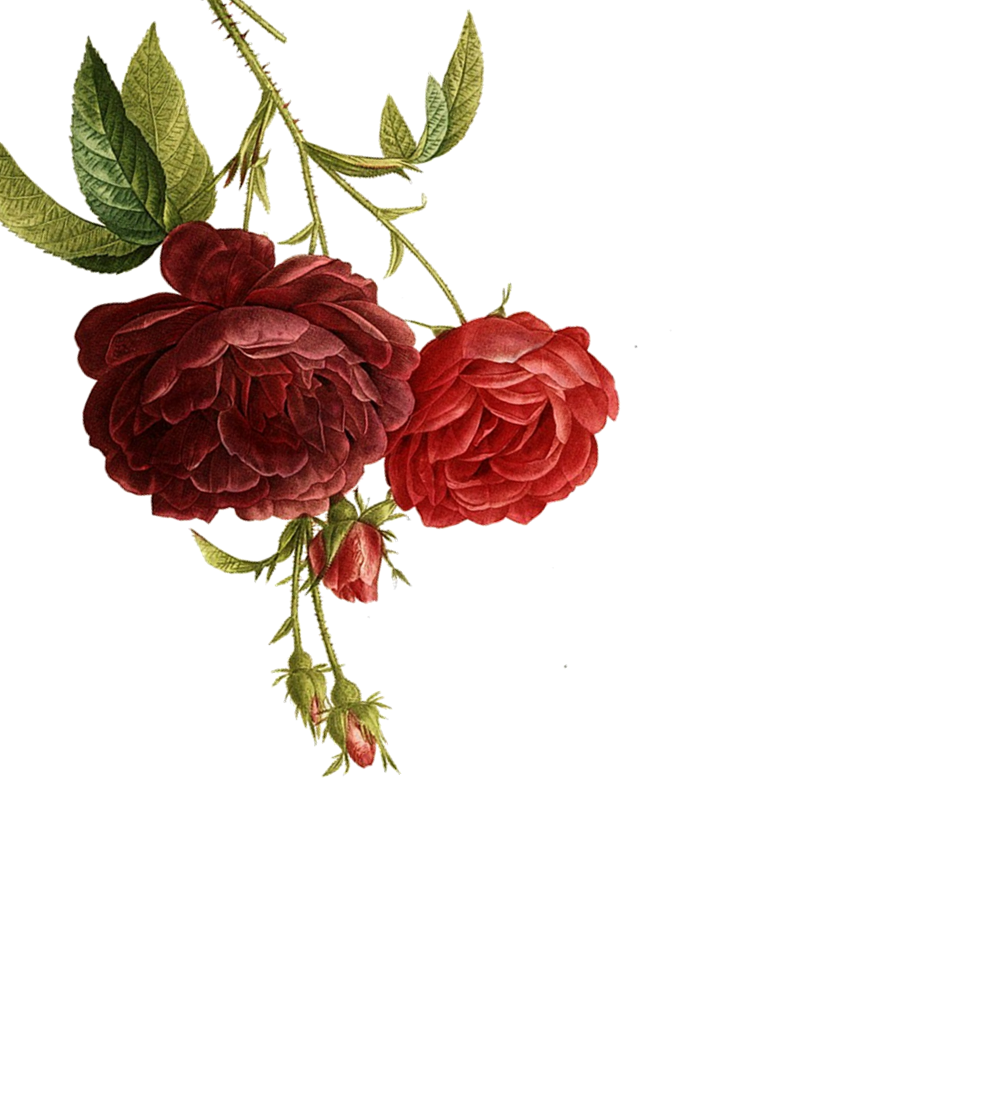
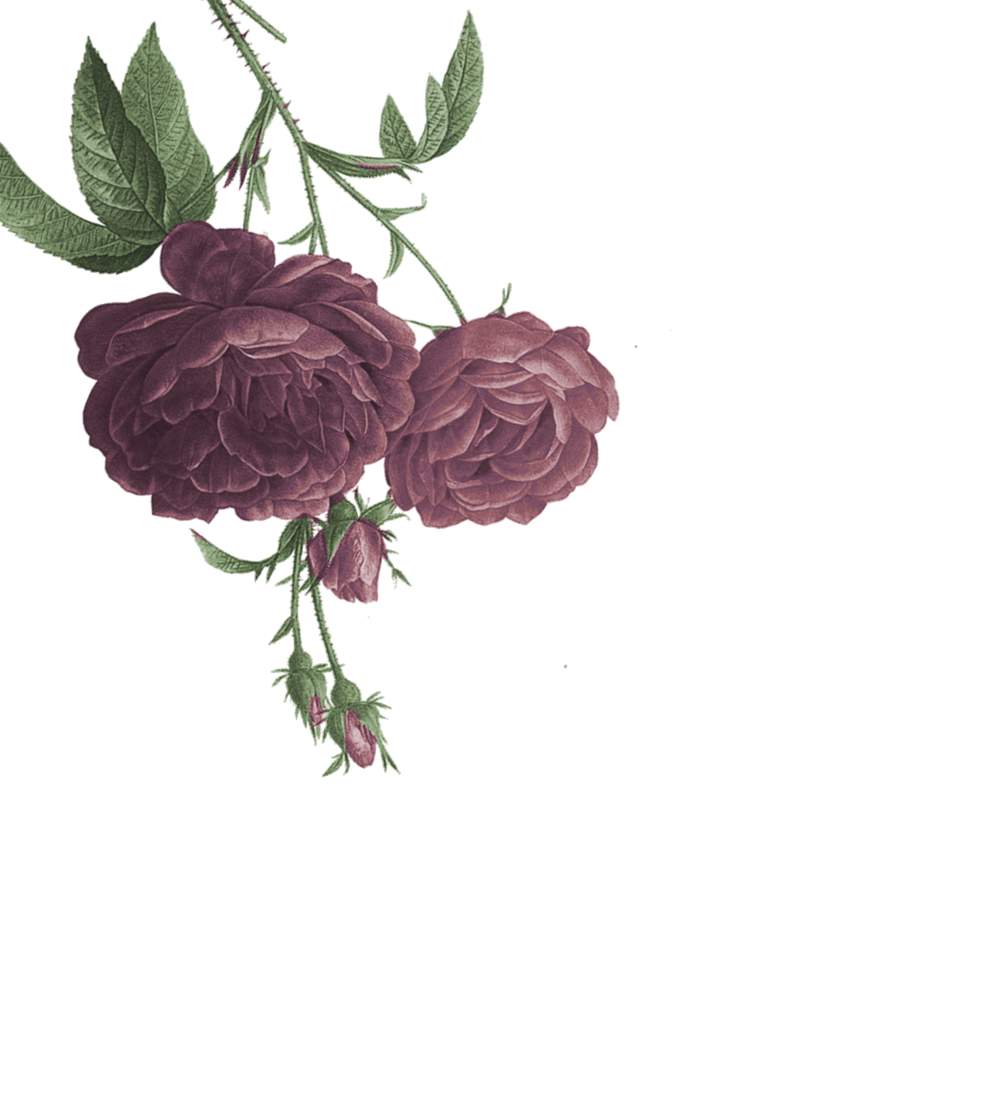
Fontes Anton/Archivo, paleta pink/lilas/verde, degradê preto e branco, sobre mim estilo provador e flores recoloridas

Changed region(s): [[0.0, 0.0, 0.62, 0.7109]]

diff --git a/index.html b/index.html
@@ -7,10 +7,10 @@
   <meta name="description" content="Prissila Kieski, criadora de conteúdo UGC. Vídeos autênticos que vendem para marcas de beleza, casa, comida, moda e fitness.">
   <meta name="theme-color" content="#1f1b1e">
 
-  <!-- Fontes do Google: Bodoni Moda (títulos, estilo editorial) e Archivo (corpo) -->
+  <!-- Fontes do Google: Anton (títulos de impacto, estilo Netflix) e Archivo (corpo) -->
   <link rel="preconnect" href="https://fonts.googleapis.com">
   <link rel="preconnect" href="https://fonts.gstatic.com" crossorigin>
-  <link href="https://fonts.googleapis.com/css2?family=Bodoni+Moda:ital,opsz,wght@0,6..96,400..700;1,6..96,400..700&family=Archivo:wght@400;500;600;700&display=swap" rel="stylesheet">
+  <link href="https://fonts.googleapis.com/css2?family=Anton&family=Archivo:wght@400;500;600;700;800&display=swap" rel="stylesheet">
 
   <style>
     /* ==========================================================
@@ -19,23 +19,25 @@
        rosa milk, verde sálvia e rosa neon
        ========================================================== */
     :root {
-      --fundo: #1f1b1e;            /* preto suave, puxado para o grafite */
-      --fundo-2: rgba(44, 38, 42, .55);  /* seções alternadas, translúcidas (deixa as ilustrações aparecerem) */
-      --superficie: #2a2528;       /* cards */
-      --superficie-2: #342e32;
-      --texto: #f6eef1;            /* texto principal (quase branco, leitura máxima) */
-      --texto-suave: #cbbfc5;      /* texto de apoio */
-      --escuro: #1f1b1e;           /* texto escuro sobre rosa milk */
-      --milk: #f7dde4;             /* rosa milk: destaques, faixas e botões */
-      --milk-forte: #eec1cd;
-      --neon: #ff2d95;             /* rosa neon: brilho e detalhes */
-      --neon-texto: #ff5cad;       /* rosa neon para TEXTO (contraste alto sobre o grafite) */
+      /* Paleta: pink elétrico, lilás envelhecido, verde botânico, branco e preto */
+      --fundo: #141214;            /* preto */
+      --branco: #f6f3f1;           /* branco quente, usado nas seções claras */
+      --fundo-2: rgba(32, 29, 32, .55);
+      --superficie: #201d20;       /* cards */
+      --superficie-2: #2a262a;
+      --texto: #f6f3f1;            /* texto principal sobre o preto */
+      --texto-suave: #c9c1c6;      /* texto de apoio */
+      --escuro: #141214;           /* texto escuro sobre cores claras */
+      --milk: #c4adca;             /* lilás envelhecido: números, faixas e destaques */
+      --milk-forte: #a68eae;
+      --neon: #ff2d95;             /* pink elétrico: botões, brilho e detalhes */
+      --neon-texto: #ff4fa3;       /* pink elétrico para TEXTO (contraste alto sobre o preto) */
       --brilho: 0 0 10px rgba(255, 45, 149, .7), 0 0 28px rgba(255, 45, 149, .45);
-      --salvia: #b3c4ae;           /* verde sálvia para textos e detalhes */
-      --salvia-linha: #6f8a6c;     /* verde sálvia para linhas */
-      --salvia-fundo: rgba(169, 187, 165, .12);
+      --salvia: #a3b896;           /* verde botânico para textos e detalhes */
+      --salvia-linha: #5f7c56;     /* verde botânico para linhas */
+      --salvia-fundo: rgba(95, 124, 86, .14);
       --borda: rgba(255, 255, 255, .1);
-      --titulo: "Bodoni Moda", "Didot", "Times New Roman", serif;
+      --titulo: "Anton", "Impact", "Arial Narrow", sans-serif;
       --corpo: "Archivo", system-ui, -apple-system, "Segoe UI", sans-serif;
       --largura: 1240px;
       --gutter: clamp(16px, 4vw, 40px);
@@ -77,7 +79,7 @@
     /* Buquê da capa em 3 camadas, cada uma balança num ritmo (efeito de brisa) */
     .capa-buque {
       position: absolute; top: 0; left: 0; z-index: 0; pointer-events: none;
-      width: min(60vw, 880px); aspect-ratio: 1000 / 1100; opacity: .6;
+      width: min(60vw, 880px); aspect-ratio: 1000 / 1100; opacity: .45;
       -webkit-mask-image: radial-gradient(ellipse 100% 100% at 0% 0%, #000 52%, transparent 100%);
               mask-image: radial-gradient(ellipse 100% 100% at 0% 0%, #000 52%, transparent 100%);
     }
@@ -95,7 +97,7 @@
     .guirlanda { position: absolute; inset: 0; z-index: -1; pointer-events: none; overflow: hidden; }
     .guirlanda span {
       position: absolute; top: 0; bottom: 0; width: min(30vw, 470px);
-      background-repeat: repeat-y; background-size: 100% auto; opacity: .42;
+      background-repeat: repeat-y; background-size: 100% auto; opacity: .3;
     }
     .guirlanda .lado-esq {
       left: -8px; background-image: url("decoracao/guirlanda-esq.png");
@@ -122,8 +124,8 @@
     }
 
     @media (max-width: 820px) {
-      .capa-buque { width: 96vw; opacity: .42; }
-      .guirlanda span { width: 38vw; opacity: .26; }
+      .capa-buque { width: 96vw; opacity: .32; }
+      .guirlanda span { width: 38vw; opacity: .2; }
     }
 
     .pular {
@@ -145,8 +147,8 @@
       padding: 6px 12px 5px; margin-bottom: 20px;
     }
     .titulo-secao {
-      font-family: var(--titulo); font-size: clamp(2.4rem, 6.2vw, 4.6rem);
-      line-height: 1.02; letter-spacing: -0.01em;
+      font-family: var(--titulo); font-size: clamp(2.4rem, 6.2vw, 4.4rem); text-transform: uppercase;
+      line-height: 1.02; letter-spacing: .01em;
       transition: color .3s ease, text-shadow .3s ease;
     }
     .titulo-secao:hover { color: var(--neon-texto); text-shadow: var(--brilho); }
@@ -162,10 +164,10 @@
       transition: color .3s ease, background-color .3s ease, border-color .3s ease, text-shadow .3s ease, box-shadow .3s ease;
     }
     .btn svg { width: 16px; height: 16px; flex-shrink: 0; fill: currentColor; }
-    .btn-vermelho { background: var(--milk); color: var(--escuro); }
+    .btn-vermelho { background: var(--neon); border-color: var(--neon); color: var(--escuro); }
     .btn-vermelho:hover, .btn-vermelho:focus-visible {
-      background: var(--neon); border-color: var(--neon); color: #fff;
-      box-shadow: 0 0 26px rgba(255, 45, 149, .55);
+      background: #fff; border-color: #fff; color: var(--escuro);
+      box-shadow: 0 0 30px rgba(255, 45, 149, .7);
     }
     .btn-cinza { background: transparent; color: var(--texto); border-color: rgba(255,255,255,.35); }
     .btn-cinza:hover, .btn-cinza:focus-visible { color: var(--neon-texto); border-color: var(--neon); text-shadow: var(--brilho); }
@@ -227,16 +229,16 @@
       display: inline-flex; align-items: center; gap: 12px; margin-bottom: 22px;
       font-weight: 500; font-size: .76rem; letter-spacing: .26em; text-transform: uppercase; color: var(--salvia);
     }
-    .selo b { font-weight: 700; color: var(--escuro); background: var(--milk); padding: 5px 10px 4px; letter-spacing: .22em; font-size: .74rem; }
+    .selo b { font-weight: 700; color: var(--escuro); background: var(--neon); padding: 5px 10px 4px; letter-spacing: .22em; font-size: .74rem; }
     .capa h1 {
       font-family: var(--titulo); text-transform: uppercase; font-weight: 500;
       font-size: clamp(3.3rem, 10.5vw, 9rem); line-height: .9; letter-spacing: -0.015em;
     }
     .capa h1 span { transition: color .35s ease, text-shadow .35s ease; }
     .capa h1 span:hover { color: var(--neon-texto); text-shadow: var(--brilho); }
-    .capa h1 .linha-2 { display: inline-block; font-style: italic; font-weight: 400; color: var(--milk); padding-right: .08em; }
+    .capa h1 .linha-2 { display: inline-block; color: var(--neon); padding-right: .08em; }
     .capa .frase { margin-top: 28px; max-width: 540px; font-size: clamp(1.05rem, 2vw, 1.22rem); color: var(--texto-suave); line-height: 1.7; }
-    .capa .frase strong { color: var(--milk); font-weight: 600; font-style: italic; transition: color .3s ease, text-shadow .3s ease; }
+    .capa .frase strong { color: var(--milk); font-weight: 600; transition: color .3s ease, text-shadow .3s ease; }
     .capa .frase strong:hover { color: var(--neon-texto); text-shadow: var(--brilho); }
     .capa .frase .local { color: var(--salvia); white-space: nowrap; }
     .capa-botoes { display: flex; flex-wrap: wrap; gap: 12px; margin-top: 34px; }
@@ -262,24 +264,24 @@
     .capa-foto .midia { width: 100%; height: 100%; object-fit: cover; object-position: 50% 32%; filter: saturate(.95); }
     .capa-foto .iniciais {
       position: absolute; inset: 0; display: grid; place-items: center; z-index: 2;
-      font-family: var(--titulo); font-style: italic; font-size: clamp(6rem, 16vw, 11rem); color: rgba(255,255,255,.5); pointer-events: none;
+      font-family: var(--titulo); font-size: clamp(6rem, 16vw, 11rem); color: rgba(255,255,255,.5); pointer-events: none;
     }
-    .faixa-marcas { background: var(--milk); overflow: hidden; position: relative; }
+    .faixa-marcas { background: transparent; overflow: hidden; position: relative; }
     .faixa-marcas .rotulo {
       position: absolute; left: 0; top: 0; bottom: 0; z-index: 2;
       display: flex; align-items: center; padding: 0 22px 0 var(--gutter);
-      background: linear-gradient(90deg, var(--milk) 78%, transparent);
-      font-size: .68rem; font-weight: 600; letter-spacing: .26em; text-transform: uppercase; color: var(--escuro);
+      background: linear-gradient(90deg, var(--fundo) 70%, transparent);
+      font-size: .68rem; font-weight: 600; letter-spacing: .26em; text-transform: uppercase; color: var(--salvia);
     }
     .faixa-trilho { display: flex; width: max-content; animation: deslizar 42s linear infinite; }
     .faixa-marcas:hover .faixa-trilho { animation-play-state: paused; }
     .faixa-trilho ul { display: flex; }
     .faixa-trilho li {
       padding: 18px 30px; white-space: nowrap;
-      font-family: var(--titulo); font-style: italic; font-size: 1.35rem; color: var(--escuro);
+      font-family: var(--titulo); font-size: 1.35rem; letter-spacing: .06em; text-transform: uppercase; color: var(--milk);
       display: flex; align-items: center; gap: 30px; transition: color .3s ease;
     }
-    .faixa-trilho li:hover { color: #b1005d; }
+    .faixa-trilho li:hover { color: var(--neon-texto); text-shadow: var(--brilho); }
     .faixa-trilho li::after { content: ""; width: 5px; height: 5px; background: var(--salvia-linha); border-radius: 50%; }
     .faixa-trilho li:nth-child(even)::after { background: var(--neon); }
     @keyframes deslizar { to { transform: translateX(-50%); } }
@@ -287,40 +289,38 @@
     /* ==========================================================
        2. SOBRE MIM
        ========================================================== */
-    /* Sobre mim: foto grande em preto e branco ao fundo + polaroid colorida na frente + texto à direita */
-    #sobre { padding-block: clamp(80px, 11vw, 140px); }
-    #sobre > .container { position: relative; z-index: 1; }
-    .sobre-fundo {
-      position: absolute; inset: 0; z-index: 0; pointer-events: none;
-      -webkit-mask-image: linear-gradient(to bottom, transparent 0%, #000 16%, #000 84%, transparent 100%);
-              mask-image: linear-gradient(to bottom, transparent 0%, #000 16%, #000 84%, transparent 100%);
+    /* Seções claras: o fundo passa do preto para o branco e volta em degradê suave, sem linha de corte.
+       As cores de texto se ajustam sozinhas dentro delas. */
+    .tema-claro {
+      --texto: #141214; --texto-suave: #5a525d; --borda: rgba(20, 18, 20, .12);
+      --superficie: #ffffff; --superficie-2: #efe9ec;
+      --milk: #6f5a78; --milk-forte: #8a7593;
+      --neon-texto: #d1006b; --brilho: 0 0 10px rgba(255, 45, 149, .35), 0 0 22px rgba(255, 45, 149, .2);
+      --salvia: #4b6844; --salvia-linha: #8aa37f; --salvia-fundo: rgba(95, 124, 86, .1);
+      color: var(--texto);
     }
-    .sobre-fundo img { width: 100%; height: 100%; object-fit: cover; object-position: 50% 30%; filter: grayscale(1) brightness(.6) contrast(1.08); }
-    .sobre-fundo::after {
-      /* escurece mais do lado do texto, para leitura fácil */
-      content: ""; position: absolute; inset: 0;
-      background: linear-gradient(90deg, rgba(31, 27, 30, .2) 0%, rgba(31, 27, 30, .55) 50%, rgba(31, 27, 30, .88) 100%);
+    .tema-claro::before {
+      content: ""; position: absolute; inset: 0; z-index: -2; pointer-events: none;
+      background: linear-gradient(to bottom, var(--fundo) 0, var(--branco) 150px, var(--branco) calc(100% - 150px), var(--fundo) 100%);
     }
-    .sobre-grade { display: grid; grid-template-columns: minmax(220px, 340px) 1fr; gap: clamp(36px, 8vw, 120px); align-items: center; }
-    .polaroid {
-      margin: 0; background: #fbf7f2; padding: 14px 14px 0;
-      box-shadow: 0 30px 60px rgba(0, 0, 0, .55); transform: rotate(-3deg);
-      transition: transform .6s cubic-bezier(.2, .7, .2, 1), box-shadow .6s ease;
-    }
-    .polaroid:hover { transform: rotate(-1deg) translateY(-6px); box-shadow: 0 36px 70px rgba(0, 0, 0, .6), 0 0 30px rgba(255, 45, 149, .25); }
-    .polaroid-foto { aspect-ratio: 4 / 5; overflow: hidden; }
-    .polaroid-foto .midia { width: 100%; height: 100%; object-fit: cover; object-position: 50% 38%; }
+
+    .secao.tema-claro { padding-block: clamp(170px, 15vw, 220px); }
+
+    /* Sobre mim: clean e minimalista, como um provador da Zara */
+    .sobre-grade { display: grid; grid-template-columns: minmax(220px, 360px) 1fr; gap: clamp(40px, 9vw, 140px); align-items: center; }
+    .polaroid { margin: 0; }
+    .polaroid-foto { aspect-ratio: 3 / 4; overflow: hidden; outline: 1px solid var(--texto); outline-offset: 12px; background: var(--superficie-2); }
+    .polaroid-foto .midia { width: 100%; height: 100%; object-fit: cover; object-position: 50% 38%; transition: transform 1.2s ease; }
+    .polaroid:hover .polaroid-foto .midia { transform: scale(1.03); }
     .polaroid figcaption {
-      color: var(--escuro); text-align: center; padding: 14px 6px 18px;
-      font-family: var(--titulo); font-style: italic; font-size: 1.2rem; line-height: 1.2;
+      margin-top: 30px; display: flex; justify-content: space-between; gap: 12px; flex-wrap: wrap;
+      font-size: .66rem; font-weight: 600; letter-spacing: .26em; text-transform: uppercase; color: var(--texto);
     }
-    .polaroid figcaption small { display: block; margin-top: 4px; font-family: var(--corpo); font-style: normal; font-size: .62rem; font-weight: 700; letter-spacing: .24em; text-transform: uppercase; color: #b1005d; }
-    .sobre-texto { text-shadow: 0 2px 22px rgba(20, 17, 19, .85); }
-    .sobre-texto p { color: var(--texto); font-size: 1.08rem; margin-top: 16px; max-width: 520px; }
-    .sobre-texto p:first-of-type { margin-top: 20px; }
-    .sobre-texto p strong { color: var(--milk); font-weight: 600; }
-    .sobre-texto .entregas li { background: rgba(31, 27, 30, .55); text-shadow: none; }
-    /* Sobre mim sem foto: vira uma faixa compacta */
+    .polaroid figcaption small { font-size: inherit; letter-spacing: inherit; font-weight: 500; color: var(--texto-suave); }
+    .sobre-texto p { color: var(--texto-suave); font-size: 1.04rem; margin-top: 16px; max-width: 480px; }
+    .sobre-texto p:first-of-type { margin-top: 22px; }
+    .sobre-texto p strong { color: var(--texto); font-weight: 700; }
+    .sobre-texto .entregas li { border-radius: 0; border-color: var(--texto); background: transparent; font-size: .74rem; letter-spacing: .1em; text-transform: uppercase; }    /* Sobre mim sem foto: vira uma faixa compacta */
     .sobre-grade.sem-foto { display: block; max-width: 860px; }
     .sobre-grade.sem-foto .cabecalho-secao { margin-bottom: 0; }
     .sobre-grade.sem-foto .titulo-secao { font-size: clamp(2rem, 4.6vw, 3.2rem); }
@@ -353,7 +353,7 @@
     .destaque:hover .destaque-capa .midia { transform: scale(1.05); }
     .ranking {
       position: absolute; top: 8px; left: 16px; z-index: 2;
-      font-family: var(--titulo); font-style: italic; font-size: 4.2rem; line-height: 1; color: #fff;
+      font-family: var(--titulo); font-size: 4.2rem; line-height: 1; color: #fff;
       text-shadow: 0 2px 14px rgba(0,0,0,.35);
     }
     .tag-alta {
@@ -528,7 +528,7 @@
       display: grid; grid-template-columns: repeat(3, minmax(0, 1fr));
       gap: 1px; background: var(--borda); border: 1px solid var(--borda);
     }
-    .servico { background: rgba(42, 37, 40, .92); padding: 34px 28px; position: relative; overflow: hidden; transition: background-color .4s ease; }
+    .servico { background: var(--superficie); padding: 34px 28px; position: relative; overflow: hidden; transition: background-color .4s ease; }
     .servico::before {
       content: ""; position: absolute; left: 0; top: 0; width: 100%; height: 2px;
       background: var(--neon); box-shadow: 0 0 12px var(--neon);
@@ -536,7 +536,7 @@
     }
     .servico:hover { background: var(--superficie-2); }
     .servico:hover::before { transform: scaleX(1); }
-    .servico-num { font-family: var(--titulo); font-style: italic; font-size: 2.6rem; line-height: 1; color: var(--salvia-linha); }
+    .servico-num { font-family: var(--titulo); font-size: 2.6rem; line-height: 1; color: var(--salvia-linha); }
     .servico h3 { font-family: var(--titulo); font-weight: 500; font-size: 1.7rem; margin-top: 16px; transition: color .3s ease, text-shadow .3s ease; }
     .servico:hover h3 { color: var(--neon-texto); text-shadow: var(--brilho); }
     .servico p { color: var(--texto-suave); margin-top: 10px; }
@@ -554,7 +554,7 @@
     }
     .contador:hover strong { color: var(--neon-texto); text-shadow: var(--brilho); }
     .contador span { display: block; margin-top: 12px; color: var(--texto-suave); font-weight: 500; font-size: .74rem; letter-spacing: .14em; text-transform: uppercase; }
-    .subtitulo-bloco { font-family: var(--titulo); font-style: italic; font-weight: 400; font-size: 1.8rem; margin: 72px 0 24px; display: flex; align-items: center; gap: 16px; }
+    .subtitulo-bloco { font-family: var(--titulo); font-weight: 400; font-size: 1.8rem; margin: 72px 0 24px; display: flex; align-items: center; gap: 16px; }
     .subtitulo-bloco::after { content: ""; flex: 1; height: 1px; background: var(--borda); }
     .resultados { display: grid; grid-template-columns: repeat(3, minmax(0, 1fr)); gap: 18px; }
     .resultado { padding: 28px; background: var(--superficie); border-top: 2px solid var(--salvia-linha); transition: box-shadow .3s ease, border-color .3s ease; }
@@ -577,7 +577,7 @@
     .depoimento figcaption { margin-top: auto; display: flex; align-items: center; gap: 12px; }
     .avatar {
       width: 44px; height: 44px; border-radius: 50%; display: grid; place-items: center; flex-shrink: 0;
-      font-family: var(--titulo); font-style: italic; font-size: 1.05rem; color: var(--escuro); background: var(--milk);
+      font-family: var(--titulo); font-size: 1.05rem; color: var(--escuro); background: var(--milk);
     }
     .depoimento figcaption b { display: block; font-weight: 600; }
     .depoimento figcaption span { color: var(--texto-suave); font-size: .86rem; }
@@ -688,7 +688,6 @@
       .capa-foto .iniciais { font-size: 7rem; }
       .sobre-grade { grid-template-columns: 1fr; }
       .sobre-foto { width: min(250px, 72%); margin-inline: auto; }
-      .sobre-fundo::after { background: linear-gradient(180deg, rgba(31, 27, 30, .35) 0%, rgba(31, 27, 30, .85) 60%); }
       .destaques-grade { grid-template-columns: 1fr; max-width: 380px; margin-inline: auto; }
     }
 
@@ -749,8 +748,7 @@
     </section>
 
     <!-- 2. SOBRE MIM -->
-    <section class="secao" id="sobre" aria-labelledby="titulo-sobre">
-      <div class="sobre-fundo" id="sobreFundo" aria-hidden="true"></div>
+    <section class="secao tema-claro" id="sobre" aria-labelledby="titulo-sobre">
       <div class="container sobre-grade">
         <div class="sobre-foto revelar" id="sobreFoto"></div>
         <div class="sobre-texto revelar" id="sobreTexto"></div>
@@ -787,7 +785,7 @@
     </section>
 
     <!-- 5. COMO EU TE AJUDO -->
-    <section class="secao" id="servicos" aria-labelledby="titulo-servicos">
+    <section class="secao tema-claro" id="servicos" aria-labelledby="titulo-servicos">
       <div class="container">
         <div class="cabecalho-secao revelar" id="servicosCabecalho"></div>
         <div class="servicos-grade" id="servicosGrade"></div>
@@ -933,7 +931,7 @@
           "Direito de uso para anúncios"
         ],
         // Foto opcional: deixe "" para a seção ficar só com o texto (mais curta)
-        imagem: "fotos/IMG_9381.jpg",   // usada duas vezes: preto e branco ao fundo e colorida na polaroid
+        imagem: "fotos/IMG_9381.jpg",
         legenda: "Prissila Kieski",          // texto escrito embaixo da polaroid
         legendaMenor: "UGC · Micro influ",
         alt: "Prissila Kieski em close, sorrindo e segurando um produto de maquiagem com pincel",
@@ -1186,11 +1184,9 @@
     /* ---------- 2. Sobre ---------- */
     const sb = CONFIG.sobre;
     if (sb.imagem) {
-      // a mesma foto: grande em preto e branco ao fundo e colorida na polaroid
-      $("#sobreFundo").innerHTML = `<img src="${esc(sb.imagem)}" alt="" loading="lazy">`;
       $("#sobreFoto").innerHTML = `<figure class="polaroid"><div class="polaroid-foto">${midia(sb)}</div>
         <figcaption>${esc(sb.legenda)}<small>${esc(sb.legendaMenor)}</small></figcaption></figure>`;
-    } else { $("#sobreFoto").remove(); $("#sobreFundo").remove(); $(".sobre-grade").classList.add("sem-foto"); }
+    } else { $("#sobreFoto").remove(); $(".sobre-grade").classList.add("sem-foto"); }
     $("#sobreTexto").innerHTML = `${cabecalho({ kicker: sb.kicker, titulo: sb.titulo }, "titulo-sobre")}
       ${sb.paragrafos.map((p) => `<p>${p}</p>`).join("")}
       <ul class="entregas">${sb.entregas.map((e) => `<li>${icones.check}<span>${esc(e)}</span></li>`).join("")}</ul>`;
